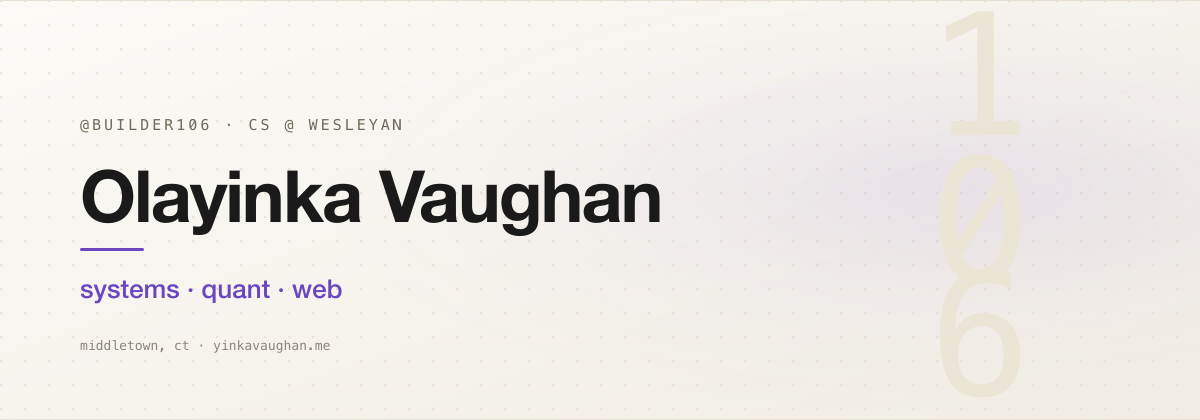
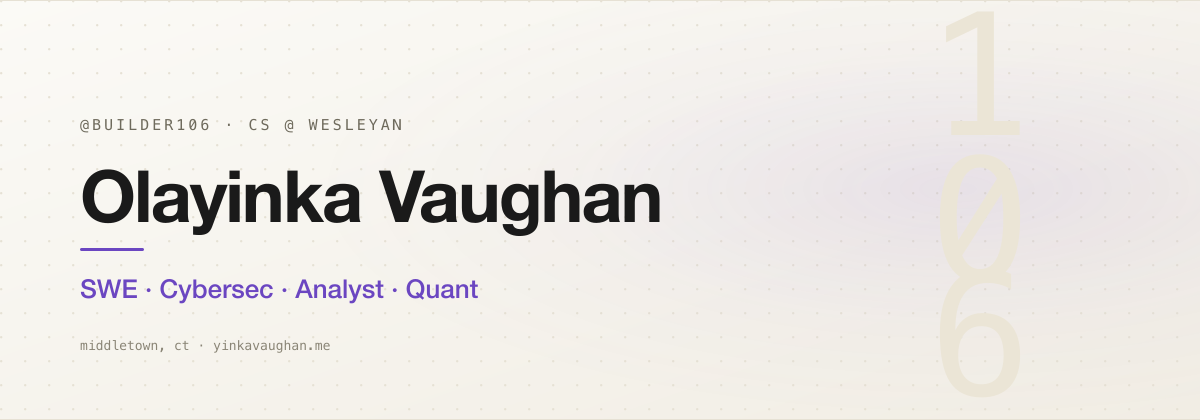
Reframe README around 4-discipline operator console

Changed region(s): [[0.0617, 0.65, 0.4008, 0.7119]]

diff --git a/README.md b/README.md
@@ -1,7 +1,7 @@
 <picture>
   <source media="(prefers-color-scheme: dark)"  srcset="assets/banner-dark.png">
   <source media="(prefers-color-scheme: light)" srcset="assets/banner-light.png">
-  <img alt="Olayinka Vaughan — systems · quant · web" src="assets/banner-dark.png">
+  <img alt="Olayinka Vaughan — SWE · Cybersec · Analyst · Quant" src="assets/banner-dark.png">
 </picture>
 
 [![Wesleyan](https://img.shields.io/badge/Wesleyan_University-CS-cc0033)](https://www.wesleyan.edu/)
@@ -10,36 +10,44 @@
 [![Devpost](https://img.shields.io/badge/Devpost-olayinkav-003e54?logo=devpost&logoColor=white)](https://devpost.com/olayinkav)
 [![Email](https://img.shields.io/badge/email-vaughanolayinka-555?logo=gmail&logoColor=white)](mailto:vaughanolayinka@gmail.com)
 
-CS student at Wesleyan. I build low-latency engines, supply-chain integrity tooling, multi-agent simulations, and the kind of full-stack web that actually ships.
+CS student at Wesleyan. I build across four tracks. Console below is the manifest — every flagship is a live repo, every claim is in its README.
 
-## Now
+<picture>
+  <source media="(prefers-color-scheme: dark)"  srcset="assets/console-dark.png">
+  <source media="(prefers-color-scheme: light)" srcset="assets/console-light.png">
+  <img alt="Operator console — SWE: LinuxBenchHub · Cybersec: ClearHash · Analyst: datafest-2026 · Quant: ocaml_limit" src="assets/console-dark.png">
+</picture>
 
-**[LinuxBenchHub](https://github.com/Builder106/LinuxBenchHub)** — VM benchmarking across Ubuntu, Fedora, and Debian under identical virtual hardware. Phoronix Test Suite under the hood, Rails 8 dashboard on top, embedded noVNC for the live view. → [linuxbenchhub.vercel.app](https://linuxbenchhub.vercel.app/)
+## SWE
 
-## Featured
+- **[LinuxBenchHub](https://github.com/Builder106/LinuxBenchHub)** · `Rails 8` — VM benchmarking across Ubuntu, Fedora, and Debian under identical virtual hardware. Phoronix + Rails dashboard + noVNC live view. ([demo](https://linuxbenchhub.vercel.app/))
+- **[STAIJA](https://github.com/Builder106/STAIJA)** · `Next.js` — STEM mentorship + applications + LMS for STAIJA's StepUp Scholars and Dynamerge programs. ([live](https://staija.org))
+- **[StudySprint](https://github.com/Builder106/StudySprint)** · `React · Express` — Study session tracker with focus timer, streaks, AI syllabus parser, and co-study rooms. ([demo](https://getstudysprint.vercel.app))
+- **[MicroMatch](https://github.com/Builder106/MicroMatch)** · `SvelteKit · Appwrite` — Micro-volunteering marketplace pairing NGOs with volunteers for skill-building tasks. ([demo](https://trymicromatch.vercel.app))
+- **[builder106.github.io](https://github.com/Builder106/builder106.github.io)** · `React Three Fiber` — Interactive 3D portfolio. ([live](https://yinkavaughan.me/))
 
-| Project | Stack | What |
-| --- | --- | --- |
-| **[ocaml_limit](https://github.com/Builder106/ocaml_limit)** | OCaml 5 | Zero-allocation limit-order-book matching engine. ~18 M orders/sec, p99 < 1 μs. Bloomberg-terminal–styled dashboard. ([demo](https://ocaml-lob.vercel.app/)) |
-| **[ClearHash](https://github.com/Builder106/ClearHash)** | Rust | Rebuilds every package, diffs every byte. A Sigstore + SLSA supply-chain integrity verifier. ([demo](https://clearhash.vercel.app/)) |
-| **[EconOS](https://github.com/Builder106/EconOS)** | Python · PettingZoo · SB3 | Multi-agent RL macroeconomic sandbox with a desktop-style telemetry UI for live policy intervention. ([demo](https://econ-os.vercel.app/)) |
-| **[CapitolAlpha](https://github.com/Builder106/CapitolAlpha)** | Python · Jupyter | Found a **+2.58% Jensen's α** (p<0.05) across 16,203 disclosed Congressional trades, 2020–2024. ([demo](https://capitolalpha.vercel.app/)) |
-| **[qforge](https://github.com/Builder106/qforge)** | C99 | Zero-dependency neural network engine + DQN trading agent + synthetic market data generator. ([demo](https://qforge-neural.vercel.app/)) |
-| **[datafest-2026](https://github.com/Builder106/datafest-2026)** | R · DuckDB | Wesleyan DataFest 2026 (Team 13). Transportation barriers in EHR data drive 3× ED visits. 7.6 M encounters, 947 K patients. ([demo](https://datafest-2026.vercel.app/)) |
+## Cybersec
 
-[Full list →](https://github.com/Builder106?tab=repositories)
+- **[ClearHash](https://github.com/Builder106/ClearHash)** · `Rust` — Rebuild every package, compare every byte, block every tamper. A supply-chain integrity verifier driven by Sigstore + SLSA. ([demo](https://clearhash.vercel.app/))
+- **[HackHelper](https://github.com/Builder106/HackHelper)** · `Python` — Tooling for security-flavored hackathon workflows.
+
+## Analyst
+
+- **[datafest-2026](https://github.com/Builder106/datafest-2026)** · `R · DuckDB` — Wesleyan DataFest 2026 (Team 13). Transportation barriers in Stormont Vail EHR data drive 3× higher emergency-department use. 7.6M encounters, 947K patients. ([demo](https://datafest-2026.vercel.app/))
+- **[MedCore](https://github.com/Builder106/MedCore)** · `TypeScript` — African health site exploring continental medical data.
+
+## Quant
+
+- **[ocaml_limit](https://github.com/Builder106/ocaml_limit)** · `OCaml 5` — Zero-allocation limit-order-book matching engine. ~18M ops/sec, p99 < 1µs. Bloomberg-terminal–styled live dashboard. ([demo](https://ocaml-lob.vercel.app/))
+- **[CapitolAlpha](https://github.com/Builder106/CapitolAlpha)** · `Python · Jupyter` — Found a **+2.58% Jensen's α** (p<0.05) across 16,203 disclosed Congressional trades, 2020–2024. ([demo](https://capitolalpha.vercel.app/))
+- **[qforge](https://github.com/Builder106/qforge)** · `C99` — Zero-dependency neural network engine + DQN trading agent + synthetic market data generator. ([demo](https://qforge-neural.vercel.app/))
+- **[EconOS](https://github.com/Builder106/EconOS)** · `Python · PettingZoo · SB3` — MARL macroeconomic sandbox with a desktop-style telemetry UI for live policy intervention. ([demo](https://econ-os.vercel.app/))
+- **[IMC_Prosperity](https://github.com/Builder106/IMC_Prosperity)** · `Python` — Trading assistant from the IMC Prosperity competition.
 
 ## Stack
 
-**Systems** &nbsp; OCaml · Rust · C · Swift
-**Web** &nbsp; TypeScript · React · Next.js · SvelteKit · Rails · Express · Tailwind
-**Data** &nbsp; Python · R · Jupyter · DuckDB · pandas · PettingZoo · Stable-Baselines3
-**Infra** &nbsp; Docker · GitHub Actions · Vercel · Caddy · Oracle Cloud · Playwright
-
-## Stats
-
-![Builder106's GitHub stats](https://github-readme-stats.vercel.app/api?username=Builder106&hide_border=true&theme=tokyonight&show_icons=true&include_all_commits=true&count_private=true&hide_title=true)
-![Top languages](https://github-readme-stats.vercel.app/api/top-langs/?username=Builder106&hide_border=true&theme=tokyonight&layout=compact&langs_count=8&hide_title=true)
+**Systems** &nbsp; OCaml · Rust · C · Swift &nbsp;·&nbsp; **Web** &nbsp; TypeScript · React · Next.js · SvelteKit · Rails · Express · Tailwind
+**Data** &nbsp; Python · R · Jupyter · DuckDB · pandas · PettingZoo · Stable-Baselines3 &nbsp;·&nbsp; **Infra** &nbsp; Docker · GitHub Actions · Vercel · Caddy · Oracle Cloud · Playwright
 
 ## Elsewhere
 
